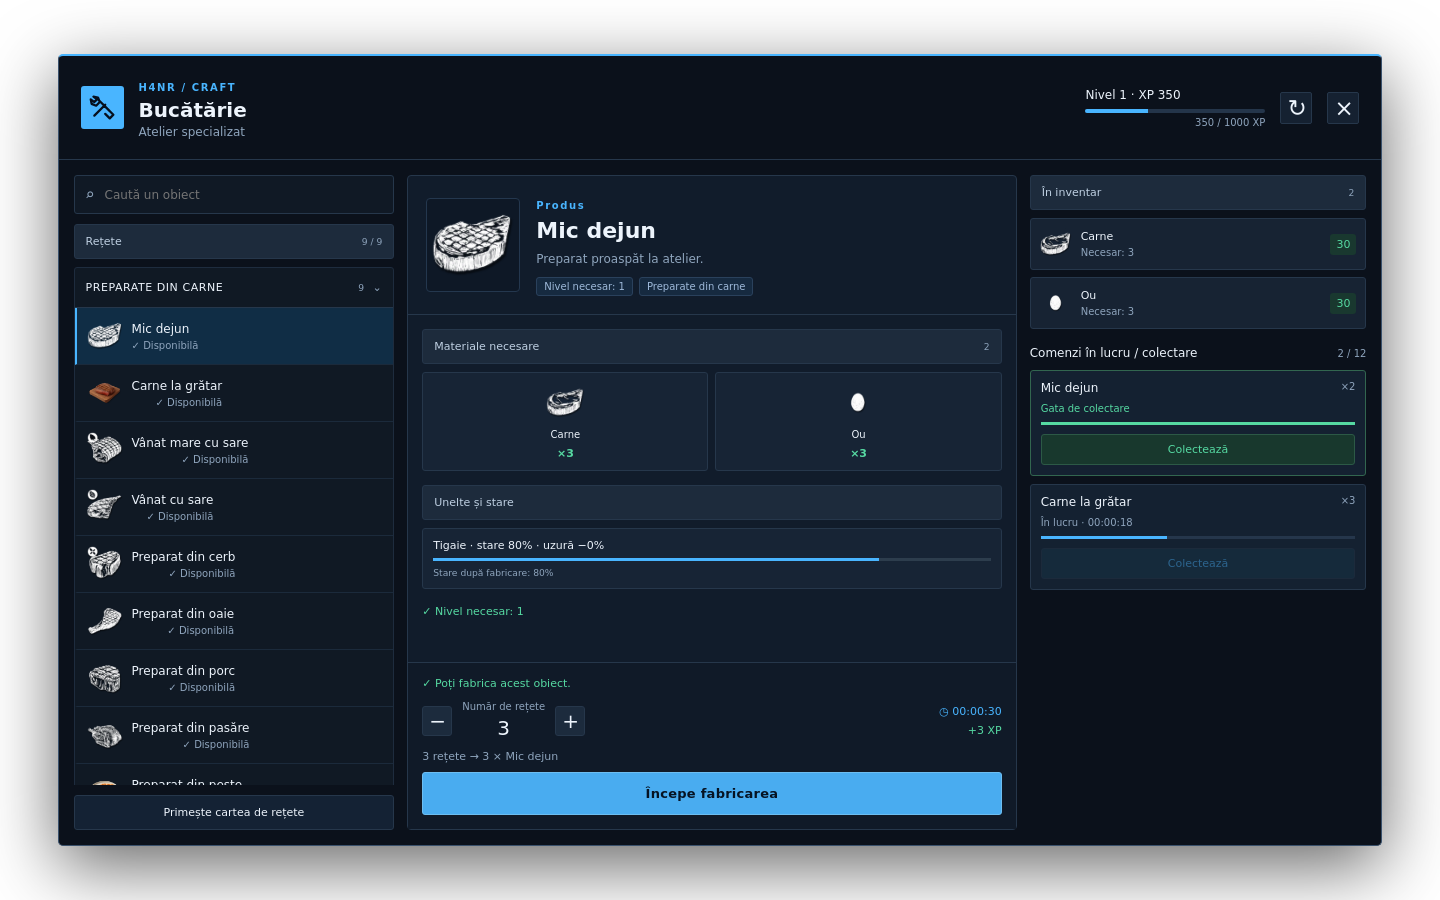
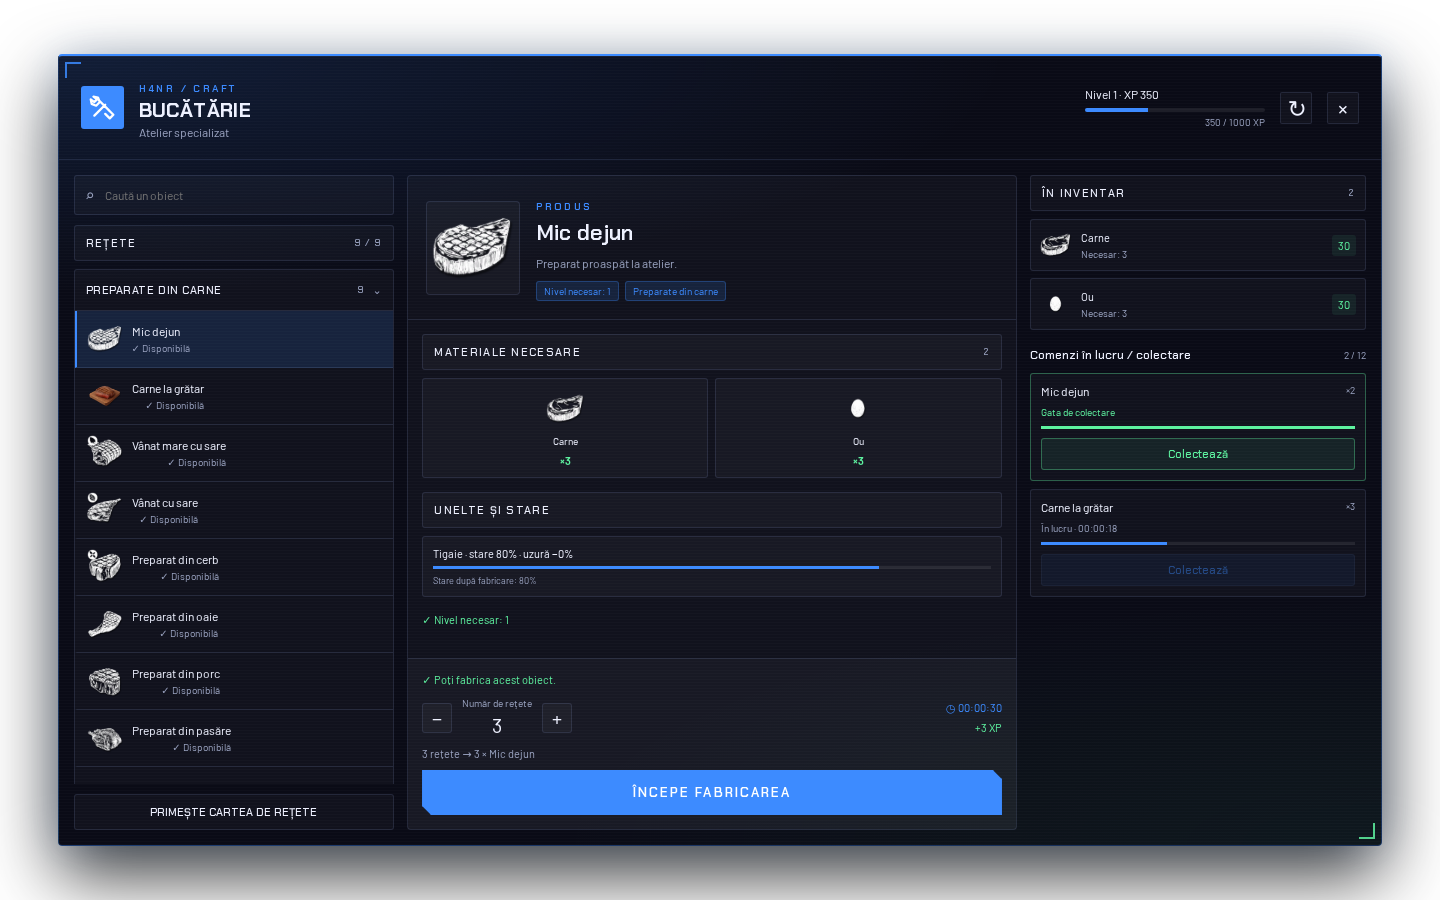
Match crafting NUI to shared Feather Neon Vice styling

diff --git a/web/style.css b/web/style.css
@@ -1,8 +1,14 @@
+/* Layout belongs to Craft; visual tokens belong to feather-theme. */
 :root {
-  --bg: #0b111b; --panel: #111c2b; --card: #172435; --border: #26374b;
-  --text: #edf4fc; --muted: #8fa5bd; --blue: #49b5ff; --blue-dark: #102d45;
-  --green: #56d9a2; --amber: #f0b96b; --red: #ed8890;
-  font-family: Inter, 'Segoe UI', Arial, sans-serif; color: var(--text);
+  --bg: var(--fx-background, #0a0b16); --panel: var(--fx-surface); --card: var(--fx-surface); --border: var(--fx-line);
+  --text: var(--fx-text, #eef1ff); --muted: var(--fx-muted, #9aa3c0); --blue: var(--fx-accent, #3d8bff);
+  --blue-dark: rgba(var(--fx-accent-rgb, 61, 139, 255), .14);
+  --green: var(--fx-accent-2, #5ef2a0); --amber: var(--fx-warning, #ffb84d); --red: var(--fx-danger, #ff5a5a);
+  --warning-line: rgba(var(--fx-warning-rgb, 255, 184, 77), .45);
+  --success-line: rgba(var(--fx-accent-2-rgb, 94, 242, 160), .35);
+  --warning-bg: rgba(var(--fx-warning-rgb, 255, 184, 77), .08);
+  --success-bg: rgba(var(--fx-accent-2-rgb, 94, 242, 160), .08);
+  font-family: var(--fx-font-body); color: var(--text);
 }
 * { box-sizing: border-box; }
 html, body { margin: 0; background: transparent; }
@@ -15,113 +21,131 @@ button:focus-visible, input:focus-visible, summary:focus-visible { outline: 2px 
 button, input, summary { -webkit-tap-highlight-color: transparent; }
 button { transition: background .15s, border-color .15s; }
 button:hover:not(:disabled) { border-color: var(--blue); }
-.workbench { position: fixed; inset: 6vh 4vw; display: flex; flex-direction: column; background: var(--bg); border: 1px solid #3a516c; border-top: 2px solid var(--blue); border-radius: 5px; box-shadow: 0 20px 70px #0009; overflow: hidden; }
+.workbench { position: fixed; inset: 6vh 4vw; display: flex; flex-direction: column; background: var(--fx-panel-background); border: 1px solid rgba(var(--fx-accent-rgb), .3); border-top: 2px solid var(--blue); border-radius: var(--fx-radius-panel); box-shadow: var(--fx-panel-shadow); will-change: opacity; overflow: hidden; }
 .topbar { display: flex; gap: 15px; align-items: center; padding: 20px 22px; border-bottom: 1px solid var(--border); flex: 0 0 auto; }
-.brand-icon { display: grid; place-items: center; width: 43px; height: 43px; font-size: 30px; font-weight: 700; background: var(--blue); color: #06101e; border-radius: 3px; }
+.brand-icon { display: grid; place-items: center; width: 43px; height: 43px; font-size: 30px; font-weight: 700; background: var(--blue); color: var(--fx-on-accent, #ffffff); border-radius: var(--fx-radius-control); }
 .eyebrow { font-size: 10px; font-weight: 700; letter-spacing: .16em; color: var(--blue); }
 h1 { font-size: 20px; line-height: 1.2; margin: 3px 0; font-weight: 600; }
 p { margin: 0; }
 .brand-copy p { font-size: 12px; color: var(--muted); }
 .level-card { width: 180px; margin-left: auto; font-size: 12px; }
 .level-card small { display: block; text-align: right; font-size: 10px; color: var(--muted); margin-top: 4px; }
-.xp-track { height: 4px; background: #24354a; margin-top: 7px; border-radius: 3px; overflow: hidden; }
+.xp-track { height: 4px; background: rgba(255, 255, 255, .08); margin-top: 7px; border-radius: var(--fx-radius-control); overflow: hidden; }
 .xp-track i { display: block; height: 100%; background: var(--blue); }
-.icon-button { width: 32px; height: 32px; font-size: 23px; background: #152131; border-radius: 2px; }
+.icon-button { width: 32px; height: 32px; font-size: 23px; background: var(--card); border-radius: 2px; }
 .workspace { flex: 1; min-height: 0; display: grid; grid-template-columns: minmax(210px, 1fr) minmax(380px, 1.9fr) minmax(240px, 1.05fr); padding: 15px; gap: 13px; }
 .pane { min-width: 0; min-height: 0; }
 .browser, .inventory { display: flex; flex-direction: column; }
-.search-wrap { display: flex; gap: 8px; align-items: center; padding: 9px 10px; background: #101925; border: 1px solid var(--border); border-radius: 3px; margin-bottom: 10px; color: var(--muted); }
+.search-wrap { display: flex; gap: 8px; align-items: center; padding: 9px 10px; background: var(--card); border: 1px solid var(--border); border-radius: var(--fx-radius-control); margin-bottom: 10px; color: var(--muted); }
 .search-wrap input { width: 100%; min-width: 0; background: transparent; color: var(--text); border: 0; outline: none; font-size: 12px; }
-.section-bar { display: flex; align-items: center; justify-content: space-between; gap: 8px; padding: 10px 11px; margin-bottom: 8px; background: #1d2b3c; font-size: 11px; color: #bfd0e2; border: 1px solid var(--border); border-radius: 3px; }
+.section-bar { display: flex; align-items: center; justify-content: space-between; gap: 8px; padding: 10px 11px; margin-bottom: 8px; background: var(--card); font-size: 11px; color: var(--text); border: 1px solid var(--border); border-radius: var(--fx-radius-control); }
 .section-bar small { color: var(--muted); }
 .recipe-list { overflow-y: auto; flex: 1; min-height: 0; }
-.category { margin-bottom: 9px; border: 1px solid #1e2c3e; border-radius: 3px; background: #101924; }
+.category { margin-bottom: 9px; border: 1px solid var(--border); border-radius: var(--fx-radius-control); background: var(--panel); }
 .category summary { display: flex; align-items: center; justify-content: space-between; cursor: pointer; list-style: none; gap: 8px; padding: 13px 11px; font-size: 11px; text-transform: uppercase; letter-spacing: .05em; }
 .category summary::-webkit-details-marker { display: none; }
 .category summary::after { content: '⌄'; color: var(--muted); }
 .category[open] summary { border-bottom: 1px solid var(--border); }
 .category small { color: var(--muted); margin-left: auto; }
-.recipe-button { display: flex; align-items: center; gap: 9px; width: 100%; text-align: left; padding: 10px; background: transparent; border: 0; border-left: 2px solid transparent; border-bottom: 1px solid #1b2a3b; }
+.recipe-button { display: flex; align-items: center; gap: 9px; width: 100%; text-align: left; padding: 10px; background: transparent; border: 0; border-left: 2px solid transparent; border-bottom: 1px solid var(--border); }
 .recipe-button.selected { border-left-color: var(--blue); background: var(--blue-dark); }
 .recipe-button img { width: 36px; height: 36px; object-fit: contain; }
 .recipe-copy { display: flex; flex-direction: column; gap: 4px; font-size: 12px; }
 .recipe-copy small { font-size: 10px; color: var(--muted); }
 .recipe-copy small.locked { color: var(--amber); }
-.secondary-button { width: 100%; font-size: 11px; padding: 10px; border-radius: 3px; background: #142234; margin-top: 10px; }
-.detail { display: flex; flex-direction: column; background: var(--panel); border: 1px solid var(--border); border-radius: 4px; }
+.secondary-button { width: 100%; font-size: 11px; padding: 10px; border-radius: var(--fx-radius-control); background: var(--card); margin-top: 10px; }
+.detail { display: flex; flex-direction: column; background: var(--panel); border: 1px solid var(--border); border-radius: var(--fx-radius-panel); }
 .item-hero { display: flex; gap: 16px; align-items: center; padding: 18px; border-bottom: 1px solid var(--border); }
-.item-art { width: 94px; height: 94px; flex: 0 0 auto; display: grid; place-items: center; background: #0e1826; border: 1px solid #24374e; border-radius: 4px; }
+.item-art { width: 94px; height: 94px; flex: 0 0 auto; display: grid; place-items: center; background: var(--panel); border: 1px solid var(--border); border-radius: var(--fx-radius-panel); }
 .item-art img { width: 84px; height: 84px; object-fit: contain; }
 h2 { font-size: 22px; margin: 5px 0 7px; font-weight: 600; }
 .hero-copy p { font-size: 12px; line-height: 1.5; color: var(--muted); max-height: 3em; overflow: hidden; }
 .tags { display: flex; flex-wrap: wrap; gap: 6px; margin-top: 9px; }
-.tags span { color: #9fbada; border: 1px solid #2a415c; background: #162a40; padding: 3px 7px; font-size: 10px; border-radius: 3px; }
+.tags span { color: var(--blue); border: 1px solid rgba(var(--fx-accent-rgb), .3); background: var(--blue-dark); padding: 3px 7px; font-size: 10px; border-radius: var(--fx-radius-control); }
 .detail-scroll { flex: 1; min-height: 0; overflow-y: auto; padding: 14px; }
 .ingredient-grid { display: grid; grid-template-columns: repeat(auto-fit, minmax(92px, 1fr)); gap: 7px; margin-bottom: 14px; }
-.ingredient { display: flex; flex-direction: column; align-items: center; text-align: center; gap: 7px; padding: 10px 6px; background: var(--card); border: 1px solid var(--border); border-radius: 3px; font-size: 10px; }
+.ingredient { display: flex; flex-direction: column; align-items: center; text-align: center; gap: 7px; padding: 10px 6px; background: var(--card); border: 1px solid var(--border); border-radius: var(--fx-radius-control); font-size: 10px; }
 .ingredient img { width: 39px; height: 39px; object-fit: contain; }
 .ingredient strong { font-size: 11px; color: var(--green); }
-.ingredient.missing { border-color: #755637; background: #2a241f; }
+.ingredient.missing { border-color: var(--warning-line); background: var(--warning-bg); }
 .ingredient.missing strong { color: var(--amber); }
 .tool-list { display: grid; gap: 7px; margin-bottom: 14px; }
-.tool-row { background: var(--card); border: 1px solid var(--border); padding: 10px; border-radius: 3px; display: flex; flex-direction: column; gap: 6px; font-size: 11px; }
-.tool-row.missing { border-color: #755637; color: var(--amber); }
+.tool-row { background: var(--card); border: 1px solid var(--border); padding: 10px; border-radius: var(--fx-radius-control); display: flex; flex-direction: column; gap: 6px; font-size: 11px; }
+.tool-row.missing { border-color: var(--warning-line); color: var(--amber); }
 .tool-row small { color: var(--muted); }
-.condition-track { height: 3px; background: #2d3d4d; }
+.condition-track { height: 3px; background: rgba(255, 255, 255, .08); }
 .condition-track i { display: block; height: 100%; background: var(--blue); }
 .requirements { color: var(--muted); font-size: 11px; line-height: 1.7; }
 .requirement { display: flex; gap: 7px; align-items: flex-start; }
 .requirement.ok { color: var(--green); }
 .requirement.missing { color: var(--amber); }
-.craft-footer { padding: 13px 14px 14px; border-top: 1px solid var(--border); background: #101a28; }
+.craft-footer { padding: 13px 14px 14px; border-top: 1px solid var(--border); background: var(--panel); }
 .eligibility { font-size: 11px; color: var(--green); line-height: 1.5; margin-bottom: 9px; white-space: pre-line; }
 .eligibility.blocked { color: var(--amber); }
 .quantity-row { display: flex; justify-content: space-between; align-items: center; gap: 10px; }
 .quantity-control { display: flex; gap: 10px; align-items: center; }
-.quantity-control button { width: 30px; height: 30px; background: #1c2b3d; border-radius: 3px; font-size: 20px; }
+.quantity-control button { width: 30px; height: 30px; background: var(--card); border-radius: var(--fx-radius-control); font-size: 20px; }
 .quantity-control label { display: flex; flex-direction: column; align-items: center; gap: 3px; font-size: 10px; color: var(--muted); }
 .quantity-control input { width: 64px; border: 0; background: transparent; text-align: center; color: var(--text); font-size: 20px; -moz-appearance: textfield; }
 .quantity-control input::-webkit-inner-spin-button, .quantity-control input::-webkit-outer-spin-button { -webkit-appearance: none; margin: 0; }
 .craft-metrics { display: flex; flex-direction: column; align-items: flex-end; gap: 6px; font-size: 11px; color: var(--blue); }
 .craft-metrics span:last-child { color: var(--green); }
 .output-summary { font-size: 11px; color: var(--muted); margin: 9px 0; }
-.primary-button { display: block; width: 100%; padding: 13px; background: var(--blue); color: #061323; border: 1px solid #77cbff; border-radius: 3px; font-size: 13px; font-weight: 700; letter-spacing: .02em; }
-.primary-button:hover:not(:disabled) { background: #76c8ff; }
-.primary-button:disabled { background: #213c53; color: #8da5bd; border-color: #2d4961; opacity: 1; }
+.primary-button { display: block; width: 100%; padding: 13px; background: var(--blue); color: var(--fx-on-accent, #ffffff); border: 1px solid var(--blue); border-radius: var(--fx-radius-control); font-size: 13px; font-weight: 700; letter-spacing: .02em; }
+.primary-button:hover:not(:disabled) { filter: brightness(1.15); }
+.primary-button:disabled { background: var(--blue-dark); color: var(--muted); border-color: var(--border); opacity: 1; }
 .inventory-list { overflow-y: auto; max-height: 34%; display: flex; flex-direction: column; gap: 7px; flex-shrink: 0; }
-.stock-row { display: flex; gap: 9px; align-items: center; background: #172333; border: 1px solid var(--border); padding: 9px; border-radius: 3px; }
+.stock-row { display: flex; gap: 9px; align-items: center; background: var(--card); border: 1px solid var(--border); padding: 9px; border-radius: var(--fx-radius-control); }
 .stock-row img { width: 32px; height: 32px; object-fit: contain; }
 .stock-row .stock-copy { flex: 1; min-width: 0; font-size: 11px; }
 .stock-row small { display: block; color: var(--muted); margin-top: 4px; font-size: 10px; }
-.stock-count { color: var(--green); background: #19382f; padding: 4px 6px; font-size: 11px; border-radius: 3px; }
-.stock-count.missing { color: var(--amber); background: #3b2b20; }
+.stock-count { color: var(--green); background: var(--success-bg); padding: 4px 6px; font-size: 11px; border-radius: var(--fx-radius-control); }
+.stock-count.missing { color: var(--amber); background: var(--warning-bg); }
 .queue-heading { display: flex; align-items: center; justify-content: space-between; gap: 5px; margin: 17px 0 10px; }
 h3 { font-size: 12px; font-weight: 500; margin: 0; }
 .queue-heading small { color: var(--muted); font-size: 10px; }
 .queue-list { overflow-y: auto; flex: 1; min-height: 0; }
-.queue-card { background: #142131; border: 1px solid var(--border); border-radius: 3px; padding: 10px; margin-bottom: 8px; }
-.queue-card.ready { border-color: #32664f; }
-.queue-card.preparing { border-color: #755637; }
+.queue-card { background: var(--card); border: 1px solid var(--border); border-radius: var(--fx-radius-control); padding: 10px; margin-bottom: 8px; }
+.queue-card.ready { border-color: var(--success-line); }
+.queue-card.preparing { border-color: var(--warning-line); }
 .queue-title { font-size: 12px; display: flex; justify-content: space-between; gap: 8px; }
 .queue-title span { color: var(--muted); font-size: 10px; }
 .queue-status { color: var(--muted); font-size: 10px; margin: 8px 0; }
 .queue-card.ready .queue-status { color: var(--green); }
 .queue-card.preparing .queue-status { color: var(--amber); }
-.queue-progress { height: 3px; background: #25364b; margin-bottom: 9px; }
+.queue-progress { height: 3px; background: rgba(255, 255, 255, .08); margin-bottom: 9px; }
 .queue-progress i { height: 100%; background: var(--blue); display: block; }
 .queue-card.ready .queue-progress i { background: var(--green); }
-.queue-action { width: 100%; background: #18374b; color: var(--blue); padding: 8px; border-radius: 3px; font-size: 11px; }
-.queue-card.ready .queue-action { background: #18382d; color: var(--green); border-color: #2c5946; }
+.queue-action { width: 100%; background: var(--blue-dark); color: var(--blue); padding: 8px; border-radius: var(--fx-radius-control); font-size: 11px; }
+.queue-card.ready .queue-action { background: var(--success-bg); color: var(--green); border-color: var(--success-line); }
 .empty { text-align: center; color: var(--muted); padding: 22px 10px; font-size: 12px; line-height: 1.6; }
 .pending-box { margin-top: 10px; font-size: 11px; line-height: 1.5; color: var(--amber); }
 .notice { font-size: 11px; line-height: 1.5; margin-bottom: 8px; color: var(--amber); }
 .notice:empty { display: none; }
 .notice.success { color: var(--green); }
 .busy { position: absolute; right: 12px; bottom: 8px; color: var(--blue); display: flex; align-items: center; gap: 6px; font-size: 12px; pointer-events: none; }
-.busy i { display: block; width: 12px; height: 12px; border: 2px solid #31516e; border-top-color: var(--blue); border-radius: 50%; animation: spin .8s linear infinite; }
+.busy i { display: block; width: 12px; height: 12px; border: 2px solid var(--border); border-top-color: var(--blue); border-radius: 50%; animation: spin .8s linear infinite; }
 ::-webkit-scrollbar { width: 4px; height: 4px; }
-::-webkit-scrollbar-thumb { background: #36516c; border-radius: 3px; }
+::-webkit-scrollbar-thumb { background: rgba(var(--fx-accent-rgb), .35); border-radius: var(--fx-radius-control); }
 @keyframes spin { to { transform: rotate(360deg); } }
 @media (max-width: 1100px) { .workbench { inset: 3vh 2vw; } .workspace { grid-template-columns: minmax(180px, 1fr) minmax(310px, 1.7fr) minmax(200px, 1fr); gap: 8px; padding: 10px; } .item-art { width: 65px; height: 65px; } .item-art img { width: 58px; height: 58px; } h2 { font-size: 18px; } .topbar { padding: 13px; } .item-hero { padding: 12px; gap: 10px; } }
 @media (max-width: 780px) { .workspace { display: flex; flex-direction: column; overflow-y: auto; } .pane { flex: 0 0 auto; } .browser { max-height: 210px; } .inventory { max-height: none; } .inventory-list { max-height: none; } .queue-list { max-height: 260px; } .detail-scroll { overflow: visible; } .level-card { width: 110px; } h1 { font-size: 16px; } }
 @media (prefers-reduced-motion: reduce) { * { animation: none !important; transition: none !important; } }
+
+/* Match Inventory/Menu v2 typography, angular actions and HUD corner brackets. */
+h1, h2, h3, .eyebrow, .section-bar, .category summary, .primary-button, .secondary-button, .queue-action {
+  font-family: var(--fx-font-display);
+}
+h1, .eyebrow, .section-bar, .primary-button, .secondary-button { text-transform: uppercase; }
+h1 { letter-spacing: .02em; font-weight: 700; }
+.eyebrow { letter-spacing: .24em; font-weight: 600; }
+.section-bar { letter-spacing: .12em; }
+.primary-button { clip-path: var(--fx-chamfer); border-radius: 0; font-weight: 600; letter-spacing: .16em; }
+.workbench::after {
+  content: ''; position: absolute; inset: 6px; pointer-events: none;
+  background: linear-gradient(var(--blue), var(--blue)) top left / 16px 2px no-repeat,
+    linear-gradient(var(--blue), var(--blue)) top left / 2px 16px no-repeat,
+    linear-gradient(var(--green), var(--green)) bottom right / 16px 2px no-repeat,
+    linear-gradient(var(--green), var(--green)) bottom right / 2px 16px no-repeat;
+  opacity: .85;
+}

diff --git a/web/index.html b/web/index.html
@@ -4,6 +4,8 @@
   <meta charset="utf-8">
   <meta name="viewport" content="width=device-width, initial-scale=1">
   <title>H4NR Craft</title>
+  <script src="https://cfx-nui-feather-theme/web/theme.js"></script>
+  <link rel="stylesheet" href="https://cfx-nui-feather-theme/web/tokens.css">
   <link rel="stylesheet" href="style.css">
   <script src="app.js" defer></script>
 </head>

diff --git a/README.md b/README.md
@@ -192,3 +192,14 @@ Target registry. It verifies bounded session reads, transient errors/logout, the
 first half-second staying open, target dispatch, cleanup before despawn, stale
 callbacks, streaming return, Target restart and NPC-free zones. In-game acceptance
 of this correction remains to be confirmed. Restart only h4nr-craft to deploy.
+
+### Shared styling (1.1.2)
+
+The dedicated crafting layout uses `feather-theme` 0.2.0+ for the live palette,
+player accent, Barlow body font, Chakra Petch headings, HUD corners and chamfered
+primary actions, matching the Inventory/Menu v2 Neon Vice family. Theme bridge,
+script and shared token stylesheet are required; no Menu v2 dependency is added.
+Update Theme and Craft together. For the first deployment, run `restart
+feather-theme` (or `ensure feather-theme` if stopped) before `restart h4nr-craft`.
+Browser regression covers shared font loading, Romanian text, dynamic accent,
+selection/progress/surface updates and contrast for light player accents.
